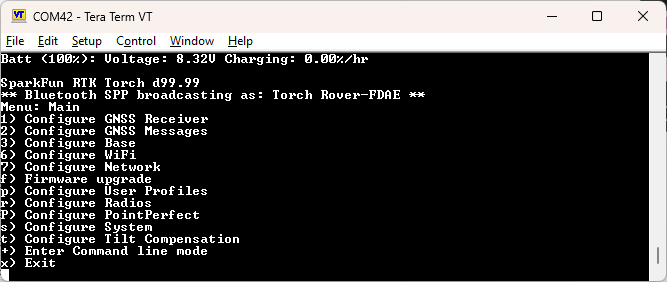
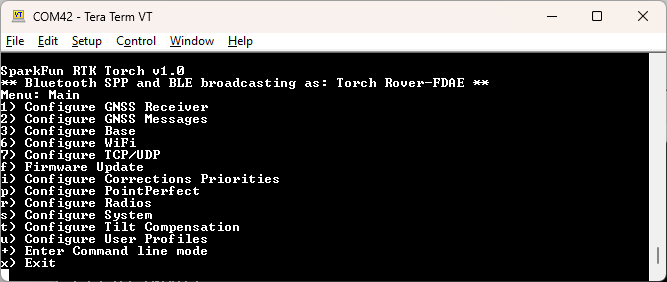
Update docs

diff --git a/docs/correction_sources.md b/docs/correction_sources.md
@@ -2,150 +2,22 @@
 
 Torch: ![Feature Supported](img/Icons/GreenDot.png)
 
-To achieve an RTK Fix, SparkFun RTK products must be provided with a correction source. This correction data, sometimes called RTCM (see [What is RTCM?](https://learn.sparkfun.com/tutorials/what-is-gps-rtk/all#what-is-rtcm)), can be produced from a variety of sources.
+![RTK Corrections Priorities Menu](<img/Terminal/SparkFun RTK Everywhere - Corrections Priorities Menu.png>)
 
-* [Paid Services](correction_sources.md#paid-services)
-* [Government Provided Corrections](correction_sources.md#government-provided-corrections)
-* [Permanent Base](correction_sources.md#permanent-base)
+*RTK Corrections Priorities Menu*
 
-## Paid Services
+To achieve an RTK Fix, SparkFun RTK products must be provided with a [correction source](https://docs.sparkfun.com/SparkFun_RTK_Everywhere_Firmware/correction_sources/). An RTK device can obtain corrections from a variety of sources. Below is the list of possible sources (not all platforms support all sources) and their default priorities:
 
-These services cover entire countries and regions but charge a monthly fee. Easy to use, but the most expensive.
+* Bluetooth
+* IP (PointPerfect/MQTT)
+* TCP (NTRIP)
+* L-Band
+* External Radio
+* LoRa Radio
+* ESP-Now
 
-* [PointPerfect](correction_sources.md#pointperfect) ($8/month) - US, EU, as well as parts of Australia, Brazil, and South Korea.
-* [PointOneNav](correction_sources.md#pointone-nav) ($50/month) - US, EU
-* [Skylark](correction_sources.md#skylark) ($29 to $69/month) - US, EU, Japan, Australia
-* [Vector RTK](https://vectorrtk.com/) ($115/month) - UK
-* [SensorCloud RTK](https://rtk.sensorcloud.com/pricing/) ($100/month) partial US, EU
-* [KeyNetGPS](https://www.keypre.com/KeynetGPS) ($375/month) North Eastern US
-* [Hexagon/Leica](https://hxgnsmartnet.com/en-US) ($500/month) - partial US, EU
+The *Corrections Sources* menu allows a user to specify which correction source should be given priority. For example, if corrections are provided over Bluetooth and L-Band simultaneously, the corrections from L-Band will be blocked because the Bluetooth source has a higher priority. This prevents the RTK engine from receiving potentially mixed correction signals.
 
-### PointPerfect
+![RTK Corrections Priorities Menu](<img/Terminal/SparkFun RTK Everywhere - Corrections Priorities Menu.png>)
 
-One of the great features of SparkFun RTK Everywhere devices is that they are equipped to get corrections from a service called PointPerfect. No need for NTRIP credentials! [Contact SparkFun](https://www.sparkfun.com/pointperfect) with your device ID, pay a small monthly fee of $8 per month (as of this writing) and your device will obtain credentials and start receiving corrections anywhere there is coverage. Please see the [PointPerfect Menu](menu_pointperfect.md) page for more information. 
-
-[![PointPerfect Coverage map including L-Band and IP delivery methods](<img/PointPerfect/SparkFun RTK Everywhere - PointPerfect Coverage Map Small.png>)](https://www.u-blox.com/en/pointperfect-service-coverage)
-
-*PointPerfect Coverage map including L-Band and IP delivery methods*
-
-The PointPerfect IP service is available for various areas of the globe including the contiguous US, EU, South Korea, as well as parts of Brazil, Australia, and Canada. See the [coverage map](https://www.u-blox.com/en/pointperfect-service-coverage) for specifics.
-
-Some SparkFun RTK devices support corrections delivered over IP only (ie, RTK Torch), some devices support L-Band only, and some devices support both IP and L-Band delivery methods. Please see the product description or hookup guide for your particular device for more information.
-
-### PointOne Nav
-
-![PointOne Nav US Coverage Map 2024](<img/Corrections/PointOne Nav Coverage Map - 2024.png>)
-
-*PointOne Nav Coverage Map - US 2024*
-
-In this example, we will use PointOneNav and SW Maps.
-
-1. Create an account on [PointOneNav](https://app.pointonenav.com/trial?src=sparkfun). **Note:** This service costs $50 per month at the time of writing.
-
-2. Open SW Maps and connect to the RTK device over Bluetooth.
-
-3. Once connected, open the SW Maps menu again (top left corner) and you will see a new option; click on ‘NTRIP Client'.
-
-4. Enter the credentials provided by PointOneNav and click Connect (Figure 1). Verify that *Send NMEA GGA* is checked.
-
-    ![NTRIP credentials in SW Maps](<img/SWMaps/SparkFun RTK SW Maps - NTRIP Credentials.png>)
-
-    *Figure 1*
-
-5. Corrections will be downloaded every second from PointOneNav using your phone’s cellular connection and then sent down to the RTK device over Bluetooth. You don't need a very fast internet connection or a lot of data; it's only about 530 bytes per second.
-
-    Assuming you are outside, as soon as corrections are sent to the device, the bubble in SW Maps will turn Orange (RTK Float). Once RTK Fix is achieved (usually under 30 seconds) the bubble will turn Green and the HPA will be below 20mm (Figure 2). You can now take positional readings with millimeter accuracy!
-
-    ![Double crosshair indicating RTK Fix](<img/SWMaps/SparkFun Torch - SW Maps GNSS Status RTK Fix HPA Small.png>)
-
-    *Figure 2*
-
-    In SW Maps, the position bubble will turn from Blue (regular GNSS fix), then to Orange (RTK Float), then to Green (RTK Fix) (Figure 3).
-
-    ![Green bubble indicating RTK Fix](<img/SWMaps/SparkFun RTK SW Maps - Green Bubble-1.png>)
-
-    *Figure 3*
-
-RTK Fix will be maintained as long as there is a clear view of the sky and corrections are delivered to the device every few seconds.
-
-### Skylark
-
-![Skylark coverage area](img/Corrections/Skylark-Coverage.png)
-
-*Skylark Coverage Area*
-
-A company called SwiftNav offers a service called [Skylark](https://www.swiftnav.com/skylark). As of writing, for $29 to $69 per month, you will get corrections covering North America, Europe, and the Asia Pacific. This is a very simple method for obtaining NTRIP corrections.
-
-![Skylark website showing credentials](img/Corrections/SparkFun%20NTRIP%20Skylark%201%20-%20Credentials.png)
-
-Upon creating an account, you'll be issued NTRIP credentials that can immediately be used with Lefebure, SW Maps, or any GIS app that supports NTRIP. 
-
-![Entering credentials into SW maps](img/SWMaps/SparkFun%20NTRIP%20Skylark%202%20-%20SW%20Maps%20Credentials.png)
-
-*Entering credentials into SW maps*
-
-The most difficult part of using Skylark for corrections is entering the auto-generated NTRIP Password. While we understand security is important, it's not trivial manually entering these types of credentials into a GIS application.
-
-![GNSS Status showing positional accuracy](img/SWMaps/SparkFun%20NTRIP%20Skylark%202%20-%20SW%20Maps%20HPA.png)
-
-*SW Maps showing Positional Accuracy*
-
-One downside is that with a 'regional' provider such as Skylark the distance to the correction station may be larger than 10km. While we've always gotten an RTK fix, we often see horizontal positional accuracy of ~30mm instead of the 14mm when using our fixed GNSS reference station. Your mileage may vary.
-
-## Government Provided Corrections
-
-![Wisconsin network of CORS](<img/Corrections/SparkFun NTRIP 7 - Wisconsin Map.png>) 
-
-*State Wide Network of Continuously Operating Reference Stations (CORS)*
-
-Be sure to check if your state or country provides corrections for free. Many do! Currently, there are 21 states in the USA that provide this for free as a department of transportation service. Search ‘Wisconsin CORS’ as an example. Similarly, in France, check out [CentipedeRTK](https://docs.centipede.fr/). 
-
-[![UNAVO map](img/Corrections/SparkFun%20NTRIP%204%20-%20UNAVCO%20Map.png)](https://www.unavco.org/instrumentation/networks/status/all/realtime)
-
-[UNAVCO](https://www.unavco.org/) is a US-based governmental organization that runs a [network of publicly available NTRIP sources](https://www.unavco.org/instrumentation/networks/status/all/realtime). If you're lucky there's a station within 10km (6 miles) of you.
-
-![Map of European stations](img/Corrections/SparkFun%20NTRIP%206%20-%20EUREF%20Map.png)
-
-[EUREF](http://www.epncb.oma.be/_networkdata/data_access/real_time/map.php) is a permanent GNSS network in the EU.
-
-There are several public networks across the globe, be sure to google around!
-
-## Permanent Base
-
-![SparkFun Base Station Enclosure](img/Corrections/Roof_Enclosure.jpg)
-
-*The base station at SparkFun*
-
-A permanent base is a user-owned and operated base station. See [Creating a Permanent Base](permanent_base.md) for more information. A permanent base has the benefit of being the most accurate, with relatively low cost, but requires at least 24 hours of initial logging and some mechanical setup time (attaching the antenna, connecting a device to the internet, etc).
-
-## Temporary Base
-
-[![Temporary RTK Express Base setup](<img/Corrections/SparkFun_RTK_Express_-_Base_Radio.jpg>)](<img/Corrections/SparkFun_RTK_Express_-_Base_Radio - Big.jpg>)
-
-*Temporary RTK Express Base setup with serial radio*
-
-A temporary or mobile base setup is handy when you are in the field too far away from a correction source, or if your measurements do not require absolute accuracy. 
-
-To set up a temporary base, an RTK device is mounted to a tripod and is configured to complete a survey-in (aka, locate itself). It will then begin broadcasting RTCM correction data. This data (~1000 bytes a second) is sent over a data link to one or multiple rovers that can then obtain RTK Fix. 
-
-Any tripod with a ¼” camera thread will work. The [Amazon Basics tripod](https://www.amazon.com/AmazonBasics-Lightweight-Camera-Mount-Tripod/dp/B00XI87KV8) works well enough but is a bit lightweight and rickety. 
-
-Any of the RTK Everywhere products can be set up to operate in **Base** mode. Once the base has been set up with a clear view of the sky, turn on the RTK device.
-
-![RTK Torch in Survey-In Mode](img/SparkFun_RTK_Torch_On_Tripod.jpg)
-
-*RTK Torch setup as a base*
-
-On the RTK Torch, base mode is entered using a [Mode Switch](https://docs.sparkfun.com/SparkFun_RTK_Everywhere_Firmware/menu_system/#mode-switch) from the System Menu.
-
-Once the survey is complete the device will begin producing RTCM correction data. If you are using the internal 2.4GHz ESP-Now radios, data will start to broadcast. If you have an NTRIP Server enabled, corrections will be uploaded to the NTRIP Caster of your choosing. 
-
-Note: A mobile base station works well for quick trips to the field. However, the survey-in method is not recommended for the highest accuracy measurements because the positional accuracy of the base will directly translate to the accuracy of the rover. Said differently, if your base's calculated position is off by 100cm, so will every reading your rover makes. For many applications, such as surveying, this is acceptable since the Surveyor may only be concerned with measuring the lengths of property lines or features. If you’re looking for maximum accuracy consider installing a [permanent static base with a fixed antenna](permanent_base.md). We were able to pinpoint the antenna on the top of SparkFun with an incredible accuracy [+/-2mm of accuracy](img/Corrections/SparkFun_PPP_Results.png) using PPP!
-
-## Other Sources
-
-There are a large number of networks run throughout the world. Be sure to dig a bit to find a local correction source near you.
-
-[![Map of RTK2Go Stations](img/Corrections/SparkFun%20NTRIP%205%20-%20RTK2Go%20Map.png)](http://monitor.use-snip.com/?hostUrl=rtk2go.com&port=2101)
-
-* RTK2go offers a [list](http://monitor.use-snip.com/?hostUrl=rtk2go.com&port=2101) and map (click 'View all' from the list) of stations using their public casting service. While none of these stations have been verified as accurate, it can be a decent starting point to do a 'quick' test of your system.
+In the serial terminal menu, pressing a letter will increase or decrease the position of a priority. For example, in the image above, pressing **D** will raise the `L-Band` priority above `TCP (NTRIP)`.

diff --git a/docs/menu_pointperfect.md b/docs/menu_pointperfect.md
@@ -14,7 +14,7 @@ SparkFun RTK devices are equipped to get corrections from a service called Point
 
 PointPerfect has the following benefits and challenges:
 
-* Most SparkFun RTK devices come with either a pre-paid subscription or one month of free access to PointPerfect. Please see the product details for your device. [Go here](https://www.sparkfun.com/pointperfect) to enable or renew your subscription.
+* Most SparkFun RTK devices come with either a pre-paid subscription or one month of free access to PointPerfect. Please see the product details for your device. [Go here](https://www.sparkfun.com/rtk_torch_registration) to enable or renew your subscription.
 * A SparkFun RTK device can obtain RTK Fix anywhere there is [coverage](https://www.u-blox.com/en/pointperfect-service-coverage). This includes the US contiguous 48 states, the EU, Korea, as well as parts of Australia, Brazil, and Canada. Note: L-Band coverage is not available in some of these areas.
 * You don't need to be near a base station - the PPP-RTK model covers entire continents.
 * Because PointPerfect uses a model instead of a dedicated base station, it is cheaper. However, the RTK Fix is not as accurate (3-6cm) as compared to getting corrections from a dedicated base station (2cm or better but depends on the baseline distance).
@@ -25,6 +25,14 @@ PointPerfect corrections are obtained by two methods:
 * **L-Band**: Corrections are transmitted from a geosynchronous satellite. Coverage areas are limited to the US contiguous 48 states and the EU. This delivery method requires special equipment (see the [RTK Facet L-Band](https://www.sparkfun.com/products/20000) for more information). No cellular or internet connection is required.
 
 * **IP**: Corrections are transmitted over the internet. The RTK device will need access to a WiFi network. This is most commonly a hotspot on a cell phone so this delivery method is generally confined to areas with cellular and/or WiFi coverage.
+
+## Registration
+
+![Three stickers showing Device ID and QR code to registration page](<img/Torch/SparkFun RTK Torch - Device ID Stickers.png>)
+
+*Three stickers showing Device ID and QR code to registration page*
+
+All SparkFun RTK products must be registered before they are allowed on the PointPerfect network. To facilitate this, most products ship with a printed Device ID sticker and registration QR code included with the product. The QR code will prefill the registration page with the device's unique ID. If you do not have these materials, don't worry! Please visit the [registration page](https://www.sparkfun.com/rtk_torch_registration) and [obtain your device ID](https://docs.sparkfun.com/SparkFun_RTK_Everywhere_Firmware/menu_pointperfect/#obtaining-the-device-id) through the software interface.
 
 ## Keys
 
@@ -56,7 +64,7 @@ The *Days until keys expire* inform the user how many days the unit has until it
 
 * **3** - Trigger an immediate attempt to connect over WiFi and provision the device (if no keys are available) or update the keys (if provisioning has already been completed).
 
-* **4** - Display the Device ID. This is needed when a SparkFun RTK device needs to be added to the PointPerfect system. This is normally taken care of when you purchase a product that includes a PointPerfect subscription. But for customers who wish to extend their subscription beyond the initial year, or did not purchase the service and want to add it at a later date, this Device ID is what customer service needs.
+* **4** - Display the Device ID. This is needed when a SparkFun RTK device needs to be added to the PointPerfect system. This is needed when first registering the device, or modifying a subscription. [Go here](https://www.sparkfun.com/rtk_torch_registration) to manage subscriptions.
 
 * **c** - Clear the current keys.
 
@@ -64,7 +72,7 @@ The *Days until keys expire* inform the user how many days the unit has until it
 
 ## Obtaining the Device ID
 
-The device ID is unique to each RTK device and must be entered by SparkFun into the PointPerfect network (also known as whitelisting). 
+The device ID is unique to each RTK device and must be entered by SparkFun into the PointPerfect network. 
 
 ![Device ID within the serial menu](<img/Terminal/SparkFun RTK Everywhere - PointPerfect Menu Device ID.png>)
 
@@ -108,7 +116,7 @@ This message is seen when no WiFi network credentials (SSID and password) have b
 
     This device is not whitelisted. Please contact support@sparkfun.com to get your subscription activated. Please reference device ID: [device ID]
 
-This message is seen whenever the PointPerfect service is not aware of the given device. Please use the [subscription form](https://www.sparkfun.com/pointperfect) or contact support@sparkfun.com with your device ID (see [Obtaining the Device ID](menu_pointperfect.md#obtaining-the-device-id) above).
+This message is seen whenever the PointPerfect service is not aware of the given device. Please use the [subscription form](https://www.sparkfun.com/rtk_torch_registration) or contact support@sparkfun.com with your device ID (see [Obtaining the Device ID](menu_pointperfect.md#obtaining-the-device-id) above).
 
 ### Device Deactivated
 

diff --git a/docs/menu_corrections_priorities.md b/docs/menu_corrections_priorities.md
@@ -1,0 +1,160 @@
+# Corrections Priorities
+
+Torch: ![Feature Supported](img/Icons/GreenDot.png) 
+
+![Message rate configuration](<img/Terminal/SparkFun RTK Everywhere - Messages Menu.png>)
+
+*The messages configuration menu*
+
+From this menu, a user can control the output of various NMEA, RTCM, and other messages. Any enabled message will be broadcast over Bluetooth *and* recorded to SD (if available).
+
+Because of the large number of configurations possible, we provide a few common settings:
+
+* Reset to Defaults
+
+RTCM can also be enabled in both Rover and Base modes.
+
+## Reset to Defaults
+
+This will turn off all messages and enable the following messages:
+
+* NMEA-GGA, NMEA-GSA, NMEA-GST, NMEA-GSV, NMEA-RMC
+
+These five NMEA sentences are commonly used with SW Maps for general surveying.
+
+## Individual Messages
+
+![Configuring the NMEA messages](<img/Terminal/SparkFun RTK Everywhere - Messages Menu NMEA.png>)
+
+*Configuring the NMEA messages*
+
+There are a large number of messages supported (listed below). Each message sub-menu will present the user with the ability to set the message report rate.
+
+Each message rate input controls which messages are disabled (0) and how often the message is reported (1 = one message reported per 1 fix, 5 = one report every 5 fixes). The message rate range is 0 to 20.
+
+**Note:** The message report rate is the *number of fixes* between message reports. In the image above, with GSV set to 4, the NMEA GSV message will be produced once every 4 fixes. Because the device defaults to a 4Hz fix rate, the GSV message will appear once per second.
+
+The following messages are supported for Bluetooth output and logging (if available):
+
+<table class="table">
+ <table>
+  <COLGROUP><COL WIDTH=200><COL WIDTH=200><COL WIDTH=200></COLGROUP>
+  <tr>
+  	<td>&#8226; NMEA-DTM</td>
+	  <td>&#8226; NMEA-GBS</td>
+	  <td>&#8226; NMEA-GGA</td>
+  </tr>
+  <tr>
+	  <td>&#8226; NMEA-GLL</td>
+	  <td>&#8226; NMEA-GNS</td>
+	  <td>&#8226; NMEA-GRS</td>
+  </tr>
+  <tr>
+	  <td>&#8226; NMEA-GSA</td>
+	  <td>&#8226; NMEA-GST</td>
+	  <td>&#8226; NMEA-GSV</td>
+  </tr>
+  <tr>
+	  <td>&#8226; NMEA-RMC</td>
+	  <td>&#8226; NMEA-ROT</td>
+	  <td>&#8226; NMEA-THS</td>
+  </tr>
+  <tr>
+	  <td>&#8226; NMEA-VTG</td>
+    <td>&#8226; NMEA-ZDA</td>
+  </tr>
+  <tr>
+    <td>&#8226; RTCM3x-1001</td>
+    <td>&#8226; RTCM3x-1002</td>
+    <td>&#8226; RTCM3x-1003</td>
+  </tr>
+  <tr>
+    <td>&#8226; RTCM3x-1004</td>
+    <td>&#8226; RTCM3x-1005</td>
+    <td>&#8226; RTCM3x-1006</td>
+  </tr>
+  <tr>
+    <td>&#8226; RTCM3x-1007</td>
+    <td>&#8226; RTCM3x-1009</td>
+    <td>&#8226; RTCM3x-1010</td>
+  </tr>
+  <tr>
+    <td>&#8226; RTCM3x-1011</td>
+    <td>&#8226; RTCM3x-1012</td>
+    <td>&#8226; RTCM3x-1013</td>
+  </tr>
+  <tr>
+    <td>&#8226; RTCM3x-1019</td>
+    <td>&#8226; RTCM3x-1020</td>
+    <td>&#8226; RTCM3x-1033</td>
+  </tr>
+  <tr>
+    <td>&#8226; RTCM3x-1042</td>
+    <td>&#8226; RTCM3x-1044</td>
+    <td>&#8226; RTCM3x-1045</td>
+  </tr>
+  <tr>
+    <td>&#8226; RTCM3x-1046</td>
+    <td>&#8226; RTCM3x-1071</td>
+    <td>&#8226; RTCM3x-1072</td>
+  </tr>
+  <tr>
+    <td>&#8226; RTCM3x-1073</td>
+    <td>&#8226; RTCM3x-1074</td>
+    <td>&#8226; RTCM3x-1075</td>
+  </tr>
+  <tr>
+    <td>&#8226; RTCM3x-1076</td>
+    <td>&#8226; RTCM3x-1077</td>
+    <td>&#8226; RTCM3x-1081</td>
+  </tr>
+  <tr>
+    <td>&#8226; RTCM3x-1082</td>
+    <td>&#8226; RTCM3x-1083</td>
+    <td>&#8226; RTCM3x-1084</td>
+  </tr>
+  <tr>
+    <td>&#8226; RTCM3x-1085</td>
+    <td>&#8226; RTCM3x-1086</td>
+    <td>&#8226; RTCM3x-1087</td>
+  </tr>
+  <tr>
+    <td>&#8226; RTCM3x-1091</td>
+    <td>&#8226; RTCM3x-1092</td>
+    <td>&#8226; RTCM3x-1093</td>
+  </tr>
+  <tr>
+    <td>&#8226; RTCM3x-1094</td>
+    <td>&#8226; RTCM3x-1095</td>
+    <td>&#8226; RTCM3x-1096</td>
+  </tr>
+  <tr>
+    <td>&#8226; RTCM3x-1097</td>
+    <td>&#8226; RTCM3x-1104</td>
+    <td>&#8226; RTCM3x-1111</td>
+  </tr>
+  <tr>
+    <td>&#8226; RTCM3x-1112</td>
+    <td>&#8226; RTCM3x-1113</td>
+    <td>&#8226; RTCM3x-1114</td>
+  </tr>
+  <tr>
+    <td>&#8226; RTCM3x-1115</td>
+    <td>&#8226; RTCM3x-1116</td>
+    <td>&#8226; RTCM3x-1117</td>
+  </tr>
+  <tr>
+    <td>&#8226; RTCM3x-1121</td>
+    <td>&#8226; RTCM3x-1122</td>
+    <td>&#8226; RTCM3x-1123</td>
+  </tr>
+  <tr>
+    <td>&#8226; RTCM3x-1124</td>
+    <td>&#8226; RTCM3x-1125</td>
+    <td>&#8226; RTCM3x-1126</td>
+  </tr>
+  <tr>
+    <td>&#8226; RTCM3x-1127</td>
+  </tr>
+
+</table></table>

diff --git a/docs/menu_tcp_udp.md b/docs/menu_tcp_udp.md
@@ -1,0 +1,23 @@
+# TCP/UDP Menu
+
+Torch: ![Feature Supported](img/Icons/GreenDot.png) 
+
+NMEA data is generally consumed by a GIS application or Data Collector. These messages can be transmitted over a variety of transport methods. This section focuses on the delivery of NMEA messages via TCP and UDP.
+
+  ![TCP/UDP Menu showing various TCP/UDP Client and Server options](<img/Terminal/SparkFun RTK Everywhere - TCP-UDP Menu.png>)
+
+*TCP/UDP Menu showing various Client and Server options*
+
+## TCP Client and Server
+
+The RTK device supports connection over TCP. The TCP Client sits on top of the network layer and sends position data to one or more computers or cell phones for display. Some Data Collector software (such as [Vespucci](gis_software.md#vespucci)) requires that the SparkFun RTK device connect as a TCP Client. Other software (such as [QGIS](gis_software.md#qgis)) requires that the SparkFun RTK device acts as a TCP Server. Both are supported.
+
+**Note:** Currently TCP is only supported while connected to local WiFi, not AP mode. This means the device will need to be connected to a WiFi network, such as a mobile hotspot, before TCP connections can occur.
+
+![TCP Port Entry](img/WiFi%20Config/SparkFun%20RTK%20Config%20-%20TCP%20Port.png)
+
+If either Client or Server is enabled, a port can be designated. By default, the port is 2947 (registered as [*GPS Daemon request/response*](https://tcp-udp-ports.com/port-2948.htm)) but any port 0 to 65535 is supported.
+
+## UDP Server
+
+PVT can also be sent via UDP rather than TCP. If enabled, the UDP Server will begin broadcasting NMEA data over the specific port (default 10110).
